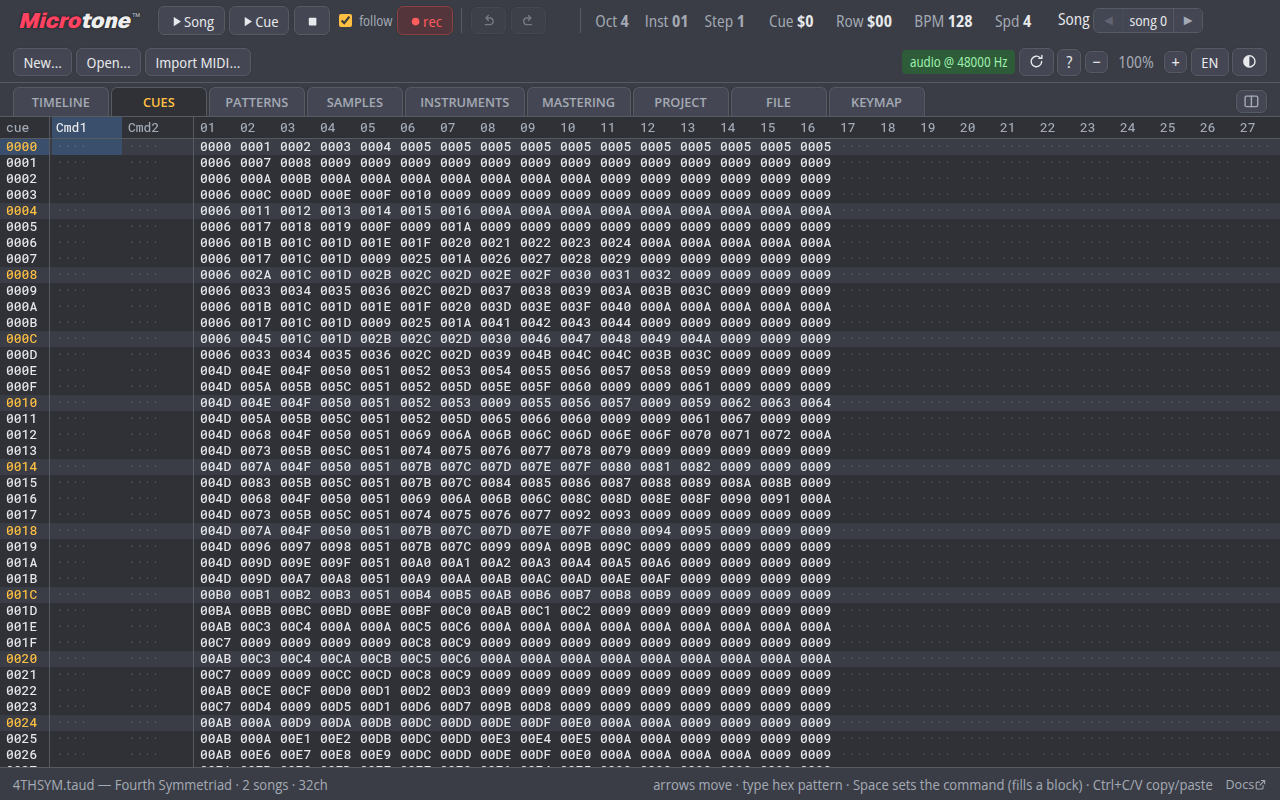
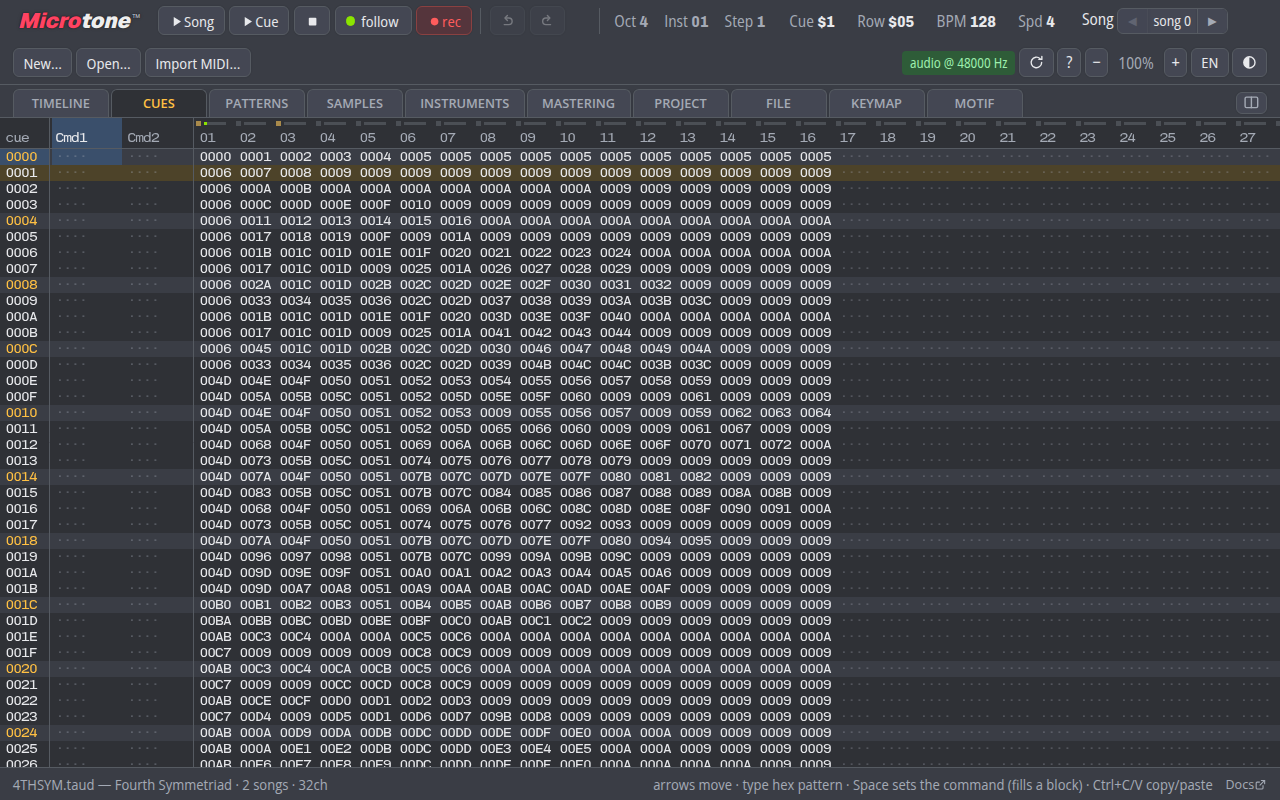
New screenshots

diff --git a/microtone-worker/tools/shots/tracker.js b/microtone-worker/tools/shots/tracker.js
@@ -1,9 +1,11 @@
-// The tracker's eight promo shots — README.md's Screenshot1..8.png, in the
-// order its "A look around" walks through them. Run by make-screenshots.js;
+// The tracker's nine promo shots — README.md's Screenshot1..9.png, in the
+// order its "A look around" walks through them (the ninth, the Mixing tab,
+// sits after the fifth there). Run by make-screenshots.js;
 // every function below runs IN THE PAGE (it is sent over CDP as source), so it
 // can reach nothing here but its own argument.
 //
-// The songs are corpus songs (test/corpus/, local-only). All eight are the
+// The songs are corpus songs (test/corpus/, local-only) bar the ninth's demo
+// project. All nine are the
 // dim theme at 1280×800, the size the README was written around.
 
 import { fileURLToPath } from "node:url";
@@ -74,13 +76,16 @@ export default {
         await __shot.until(() => __shot.reached(1, 0x03), 10000, "0001:03");
       },
     },
-    // 2 — Cues: the order list, a pattern number per lane per row.
+    // 2 — Cues: the order list, a pattern number per lane per row, with the
+    // song playing so the lanes' indicators blink. The tab is opened first so
+    // the run-up is spent on a drawn view.
     {
       out: [at("../../../Screenshot2.png")],
       url: song("4THSYM.taud"),
       async stage() {
         __shot.tab("cues");
-        await __shot.frames();
+        await __shot.play(0, 0x2b);
+        await __shot.until(() => __shot.reached(1, 0x01), 10000, "0001:01");
       },
     },
     // 3 — the pattern editor, the song's first patterns side by side.
@@ -163,6 +168,33 @@ export default {
         document.getElementById("stDirty").hidden = true;
         __shot.tab("keymap");
         await __shot.frames();
+      },
+    },
+    // 9 — the Mixing tab of the instrument editor: a chain of its own on the
+    // Marimba of the Huygens' Clock demo, six pieces in circuit (the
+    // compressor open, the rest folded to their titlebars), the song playing
+    // so the monitors move.
+    {
+      out: [at("../../../Screenshot9.png")],
+      url: "index.html?load=assets/demo_projects/Huygens_clock.taud&theme=dim",
+      async stage() {
+        __shot.tab("instruments");
+        const iv = __shot.m.instrumentsView;
+        iv.selected = 4;
+        iv.tab = "mixing";
+        iv.refresh();
+        const mx = iv.mixing;
+        mx.newChain();
+        mx.edit((b) => { b.enabled = true; });
+        for (const id of ["equ1", "comp", "satu", "unis", "dlay", "verb"]) {
+          mx.editEquipment(id, (e) => { e.bypass = false; e.folded = id !== "comp"; });
+        }
+        // A display setting, not an edit the shot should show as unsaved.
+        __shot.store.doc.dirty = false;
+        document.getElementById("stDirty").hidden = true;
+        iv.renderPanel();
+        await __shot.play(0, 0);
+        await __shot.until(() => __shot.reached(0, 0x10), 20000, "0000:10");
       },
     },
   ],

diff --git a/README.md b/README.md
@@ -83,6 +83,13 @@ tabs above carry its envelopes and its zone map. The badges in the list say
 where an instrument came from — `META` for a metainstrument, `IXMP` for a
 SoundFont patch and the number of pitch × velocity zones it brought with it.
 
+![](Screenshot9.png)
+
+The instrument's **mixing tab** gives it a chain of equipment of its own —
+equaliser, compressor, saturator, unison, delay and reverb here — ahead of the
+master bus, with monitors on the instrument's own signal. Instruments that name
+one chain share its settings.
+
 ![](Screenshot6.png)
 
 The **mastering tab**, metering a song as it plays. Microtone lets you write and
@@ -209,14 +216,14 @@ node tools/compare-pcm.js out.pcm reference.pcm
 
 ## Screenshots
 
-The screenshots in this README (`Screenshot1..8.png`, the first doubling as
+The screenshots in this README (`Screenshot1..9.png`, the first doubling as
 `microtone-worker/screenshot.png`, the site's preview image) and Microtone
 Touch's (`microtone-touch-worker/screenshots/`) are generated, in headless
 Chromium, from scenes in `microtone-worker/tools/shots/`:
 
 ```sh
 cd microtone-worker
-node tools/make-screenshots.js            # the tracker's eight (needs test/corpus/)
+node tools/make-screenshots.js            # the tracker's nine (needs test/corpus/)
 node tools/make-screenshots.js 4          # just one of them
 node tools/make-screenshots.js touch      # Touch's six
 node tools/make-screenshots.js --out /tmp/shots   # look before replacing
